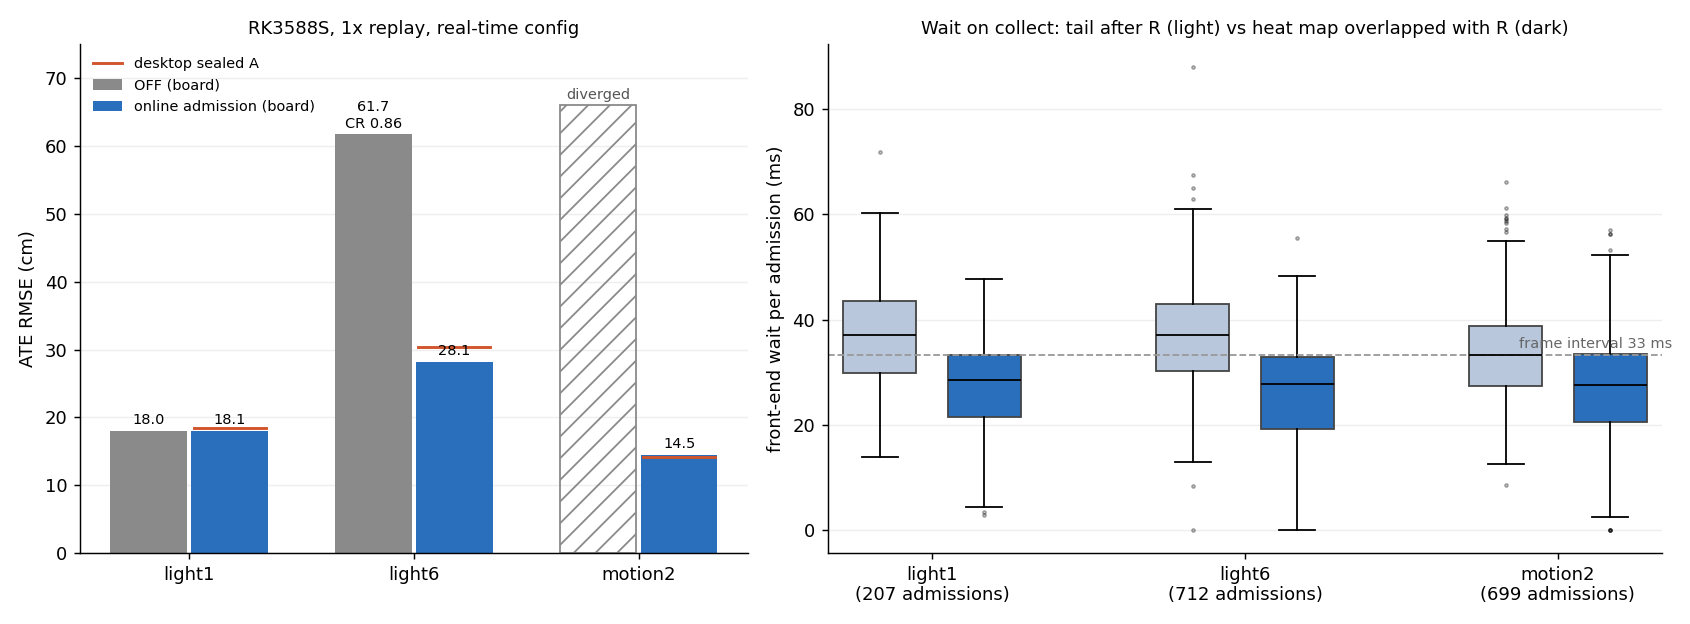
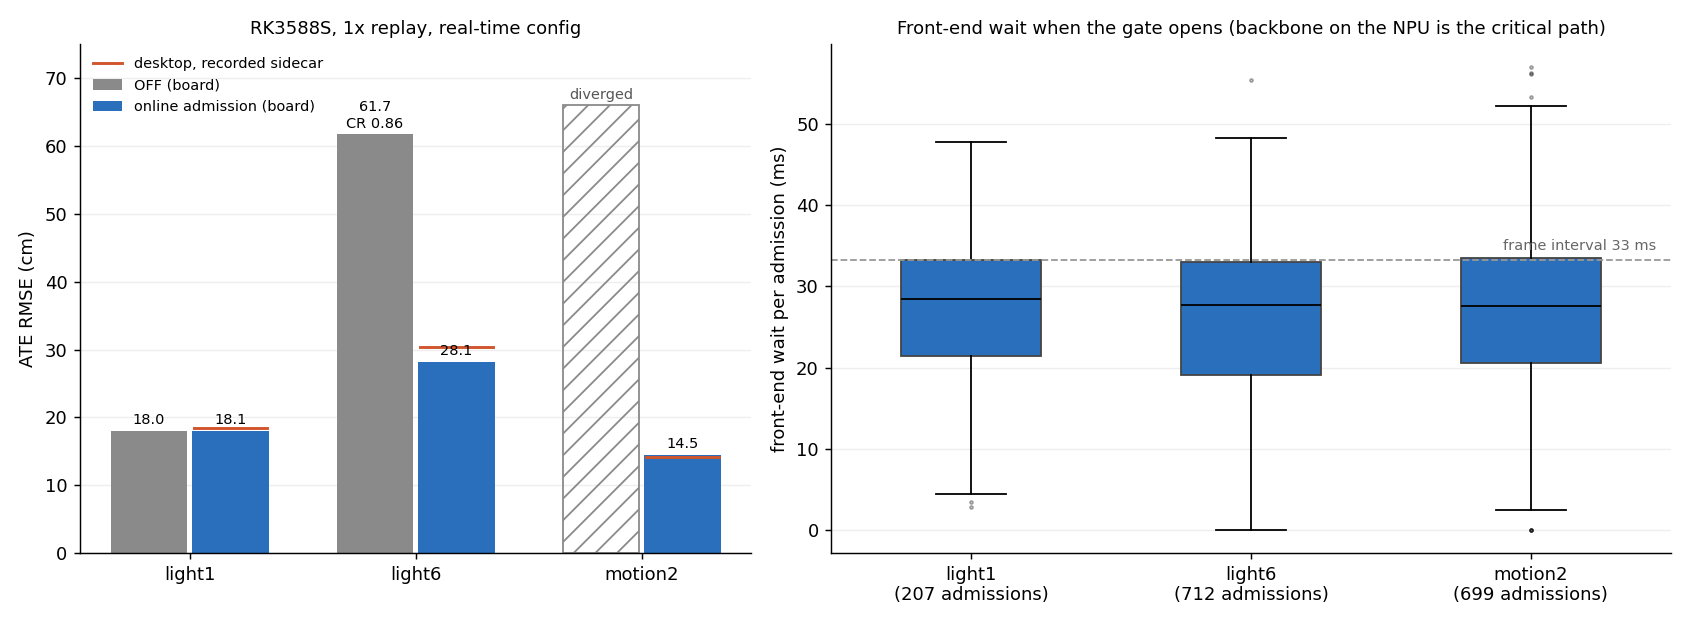
README: current state only — the board section rewritten around real-time operation with online admission; the superseded 1.1 latency table, the 1.3 quarter-rate replay and the 1.4 frozen-configuration table left to the CHANGELOG and the receipts; version line condensed; division-of-labour figure re

diff --git a/experiments/13_online_admission_20261017/scripts/figure_board_figure.py b/experiments/13_online_admission_20261017/scripts/figure_board_figure.py
@@ -26,23 +26,20 @@ for i, s in enumerate(seqs):
     a.bar(i + 0.18, n, 0.34, color=on_c, label="online admission (board)" if i == 0 else None)
     a.text(i + 0.18, n + 1, f"{n:.1f}", ha="center", fontsize=8)
     d = desk[s]["A_new"][0]
-    a.plot([i + 0.02, i + 0.34], [d, d], color=ref_c, lw=1.6, label="desktop sealed A" if i == 0 else None)
+    a.plot([i + 0.02, i + 0.34], [d, d], color=ref_c, lw=1.6, label="desktop, recorded sidecar" if i == 0 else None)
 a.set_xticks(x); a.set_xticklabels(seqs); a.set_ylabel("ATE RMSE (cm)"); a.set_ylim(0, 75)
 a.set_title("RK3588S, 1x replay, real-time config", fontsize=10)
 a.legend(fontsize=8, frameon=False, loc="upper left")
 for sp in ("top", "right"): a.spines[sp].set_visible(False)
 a.grid(axis="y", color="#eee"); a.set_axisbelow(True)
-pos = []; labels = []; data = []; colors = []
-for i, s in enumerate(seqs):
-    for j, (tag, c) in enumerate((("", "#b9c7dc"), ("_v3", on_c))):
-        data.append(waits(f"online_rt_{s}{tag}")); pos.append(i * 3 + j); colors.append(c)
-bp = b.boxplot(data, positions=pos, widths=0.7, patch_artist=True, showfliers=True,
+data = [waits(f"online_rt_{s}_v3") for s in seqs]
+bp = b.boxplot(data, positions=list(range(len(seqs))), widths=0.5, patch_artist=True, showfliers=True,
                flierprops=dict(marker=".", markersize=3, alpha=0.4), medianprops=dict(color="black"))
-for p, c in zip(bp["boxes"], colors): p.set_facecolor(c); p.set_edgecolor("#444")
-b.axhline(33.3, color="#999", ls="--", lw=1); b.text(7.6, 34.5, "frame interval 33 ms", fontsize=8, color="#666", ha="right")
-b.set_xticks([0.5, 3.5, 6.5]); b.set_xticklabels([f"{s}\n({len(data[2*i])} admissions)" for i, s in enumerate(seqs)])
+for p in bp["boxes"]: p.set_facecolor(on_c); p.set_edgecolor("#444")
+b.axhline(33.3, color="#999", ls="--", lw=1); b.text(2.45, 34.5, "frame interval 33 ms", fontsize=8, color="#666", ha="right")
+b.set_xticks(range(len(seqs))); b.set_xticklabels([f"{s}\n({len(d)} admissions)" for s, d in zip(seqs, data)])
 b.set_ylabel("front-end wait per admission (ms)")
-b.set_title("Wait on collect: tail after R (light) vs heat map overlapped with R (dark)", fontsize=10)
+b.set_title("Front-end wait when the gate opens (backbone on the NPU is the critical path)", fontsize=10)
 for sp in ("top", "right"): b.spines[sp].set_visible(False)
 b.grid(axis="y", color="#eee"); b.set_axisbelow(True)
-fig.tight_layout(); fig.savefig(W / "figures/online_board.png"); print("saved")
+fig.tight_layout(); fig.savefig(os.environ.get("OUT", str(W / "figures/online_board.png"))); print("saved")

diff --git a/README.md b/README.md
@@ -1,8 +1,9 @@
 # xfeat-admission-vio
 
-**Learned identity supply for classical visual-inertial front ends — a sidecar ABI
-any KLT tracker can consume, a reference integration into an RGB-D VIO, and a path
-from desktop replay to the RK3588 NPU.**
+**Learned identity supply for classical visual-inertial front ends — one proposal
+interface any KLT tracker can consume (a recorded sidecar, or inference inside the
+estimator), a reference integration into an RGB-D VIO, and real-time operation on the
+RK3588 NPU.**
 
 Classical VIO front ends die in one specific way: the tracker starves, the refill
 detector hands the optimizer texture-less garbage, and the sliding window folds the
@@ -12,7 +13,7 @@ candidates, only while the tracker is starving** — and leaves the estimator's
 mathematics alone. The network proposes identity; it never proposes motion.
 
 The goal is a one-stop learned front-end kit: pluggable feature backbones behind
-one binary sidecar format, gate policies that are identity-blind and auditable,
+one proposal interface, gate policies that are identity-blind and auditable,
 adapters for the common open-source estimators, and device receipts for embedded
 NPUs — so that "add a learned detector to my VIO" becomes a configuration change
 with a reproducible ledger, not a research project.
@@ -48,8 +49,6 @@ locked before the candidate ran.
 
 **motion 1–6** (aggressive handheld motion). The S-VIO column is a local replay of
 the unmodified upstream estimator under its own configuration, scored identically.
-The OFF column was produced on 2026-09-03 with the rebuilt binary that is
-byte-identical to the frozen candidate.
 
 | Sequence | ON | OFF | S-VIO (local replay) |
 |---|---:|---:|---:|
@@ -92,24 +91,18 @@ computed online on exactly the ticks where the gate can open.
 [`docs/MECHANISM.md`](docs/MECHANISM.md) has the full page, the three front-end
 modes, both proposal sources and the XFSIDE01 sidecar format.
 
-## Reproducible to the byte
+## Reproducible
 
-The gate-patched tracker hashes to the values frozen before the held-out sequences
-were opened, and a rebuild in the pinned container reproduces the frozen candidate
-binaries byte for byte; a light1 replay of both arms agrees with the sealed ATE
-(`docs/REPRODUCE.md`, `experiments/08_rebuild_verification_20260902/`). Release 1.4
-added one deployment path to the estimator (the back-end cadence, off by default); the
-binary built from the current tree with that path disabled reproduces the sealed light1
-rows to 0.005 cm (`experiments/12_rk3588s_realtime_20260903/sealed_behavior_check/`).
-Release 1.5 added online admission, off unless selected. Replaying the same sidecars,
-the 1.5 binary agrees with the 1.4 binary to within 0.03 cm on eleven of twelve
-sequences (light5: 0.7 cm). On the board, OFF reproduces 1.4 to 0.01 cm
-(`experiments/13_online_admission_20261017/`).
+Every number comes from the pinned scorer in `tools/scoring/`, and
+[`docs/REPRODUCE.md`](docs/REPRODUCE.md) rebuilds the frozen candidate in a container
+and replays it. The deployment paths added since, the back-end cadence and online
+admission, are off unless selected and leave the frozen behavior intact (receipts in
+`experiments/`).
 
 ## Layout
 
 ```
-svio/ camera_models_in/ config/ launch/   the S-VIO fork itself, at the repository root as upstream laid it out, with the XFeat sidecar reader, three front-end modes, and the gate
+svio/ camera_models_in/ config/ launch/   the S-VIO fork itself, at the repository root as upstream laid it out, with the gate, three front-end modes and both proposal sources (sidecar, online)
 patches/                the five diffs that turn upstream S-VIO into this estimator, in order (04: the back-end cadence of 1.4; 05: online admission of 1.5; both off by default)
 sidecar/                XFSIDE01 writer (xfs_materialize.py), header verifier, pinned sparse-XFeat implementation
 models/                 fixed-shape XFeat ONNX export (Apache-2.0 derivative) and its export receipt; models/online/: the reliability model and keypoint-head weights of the online path
@@ -143,100 +136,28 @@ SVIO_XFEAT_ONLINE_KHEAD=models/online/keypoint_head_fp32.bin \
 
 ## On the RK3588S
 
-The pinned FP16 backbone runs on an RK3588S (Indiedroid Nova, 16 GB) through the
-Rockchip 2.3.2 runtime; the CPU sparse tail runs on the A76 cores. Milliseconds per
-frame, 200 timed calls per input case:
+The whole estimator runs in real time on an RK3588S (Indiedroid Nova, 16 GB). It is
+an aarch64 build inside an Ubuntu 20.04 + ROS Noetic root filesystem entered with
+`chroot`, compiled natively for the A76 cores ([`deploy/board/`](deploy/board/README.md)).
+The front end runs on every frame: KLT, outlier rejection, the starvation gate and the
+learned admission. Corner detection, depth association, the line and plane front ends
+and the measurement run at 10 Hz (`backend_freq_gate: 1`,
+`experiments/12_rk3588s_realtime_20260903/config_realtime.yaml`).
 
-| Stage | median | p90 | p99 |
-|---|---:|---:|---:|
-| XFeat backbone, NPU, three cores | 64.1 | 69.7 | 76.5 |
-| XFeat backbone, NPU, one core | 67.7 | 75.4 | 79.2 |
-| sparse tail (NMS, top-500, descriptor sampling), CPU | 19.0 | 19.1 | — |
-| mutual-nearest-neighbour match, 500 × 500, CPU | 1.1 | 1.1 | — |
+The estimator computes its own proposals. Admission reads (x, y, score), and
+score = K × R: the keypoint branch's heat map times the backbone's reliability. A
+decision experiment on all twelve sequences showed that both factors must come from
+the current frame; K alone and an R one tick old both lose the gains. So on a tick
+that follows a short frame, the reliability backbone starts on the NPU as the frame
+arrives. Meanwhile the keypoint branch and its heat map run on one A76 core in
+float32. The front end takes the proposals when the gate opens; a healthy run never
+touches the NPU.
 
-Real-frame outputs reproduce the ONNX backbone through the whole sparse tail
-(500 of 500 keypoints, 0.996 within 1 px, descriptor cosine median 0.99999). The
-frozen synthetic-pattern gate and the sandbox's 50 ms p99 gate both fail on this
-board and its 0.7.2 NPU driver; the receipt says so in full:
-[`experiments/09_rk3588s_board_20260903/BOARD_RECEIPT.md`](experiments/09_rk3588s_board_20260903/BOARD_RECEIPT.md).
+![Division of labour on the RK3588S under the real-time configuration with online admission](docs/figures/rk3588s_division.svg)
 
-### The estimator end to end on the board
+Single runs at 1× replay, ATE RMSE in cm:
 
-The whole fork runs on the board as well: an aarch64 build inside an Ubuntu 20.04 + ROS
-Noetic root filesystem entered with `chroot` (recipe, launcher and replay runner in
-[`deploy/board/`](deploy/board/README.md)) replays light1 from a bag at a quarter of sensor
-rate, with the sidecar produced on the NPU beforehand. Every run processed all 2875 frames
-and produced the full 2819-pose trajectory. ATE RMSE in cm from the pinned scorer:
-
-| Machine, solver configuration | OFF | ON, sidecar made on the NPU (FP16) | ON, sidecar made on the desktop (ONNX) |
-|---|---:|---:|---:|
-| RK3588S, frozen config (40 ms wall-clock cap on Ceres) | 21.76 | 22.78 | 21.04 |
-| RK3588S, cap lifted | 22.11 | 22.69 | 20.67 |
-| desktop x86, frozen config | 27.20 | — | 19.03 |
-| desktop x86, cap lifted | 27.20 | — | 19.03 |
-
-Three things the table says. The solver cap binds on the board (Ceres averages 41 ms under
-it and 50 ms without it) and never on the desktop (11 ms), yet lifting it does not bring
-the board to the desktop's numbers. A desktop replay at the board's quarter rate reproduces
-the desktop numbers and a board repeat agrees with its first run to 0.1 cm, so neither
-replay rate nor run-to-run variation is the cause; what remains is the aarch64 build itself,
-which the receipt names as the candidate it did not test. With the desktop-made sidecar, ON beats OFF on
-the board as it does on the desktop; with the FP16 sidecar made on the NPU, ON is worse
-than OFF. Admission consumes only keypoint coordinates and scores, and the FP16 backbone
-changes the admitted set on every frame (overlap median 0.985) while the descriptors
-agree to 0.99999; one sequence, and the sign of that effect is not claimed beyond it.
-Finally, the stage times of this build put the pipeline ceiling on the A76 cores near
-17 Hz, so it does not run light1 at sensor rate; the replay was slowed to stay lossless.
-Receipt: [`experiments/11_rk3588s_end_to_end_20260903/BOARD_E2E_RECEIPT.md`](experiments/11_rk3588s_end_to_end_20260903/BOARD_E2E_RECEIPT.md).
-
-### Real time on the board
-
-What the frozen configuration cannot do, a three-line configuration can: with
-`backend_freq_gate: 1` the front end still runs on every frame (KLT, outlier rejection,
-the starvation gate, the learned admission) while corner detection, depth association,
-the line and plane front ends and the measurement move to the 10 Hz cadence that
-VINS-Mono's `freq` parameter defines, and the solver guard is sized to that period.
-Together with a native `-O3 -mcpu=cortex-a76` build and the estimator pinned to the four
-A76 cores, light1 replays at 1× on the board with every frame processed and nothing left
-to catch up when the data stops. ATE RMSE in cm, single runs:
-
-| Run on the RK3588S, light1 at 1× | poses at end of playback / final | catch-up after playback | ATE |
-|---|---:|---:|---:|
-| frozen configuration, OFF | 1861 / 2819 | 48.9 s | 22.03 |
-| real-time configuration, OFF | 939 / 939 | 0.0 s | 17.97 |
-| real-time configuration, ON, sidecar made on the desktop | 939 / 939 | 0.0 s | 14.89 |
-| real-time configuration, ON, sidecar made on the NPU | 939 / 939 | 0.0 s | 16.36 |
-| the same, with the NPU sidecar materializer running concurrently on the A55 cores and the NPU | 939 / 939 | 0.0 s | 16.36 |
-
-How the work is divided on the SoC, and what one 100 ms back-end period looks like:
-
-![Division of labour on the RK3588S under the real-time configuration](docs/figures/rk3588s_division.svg)
-
-The 10 Hz back-end cadence is a different operating point, so its accuracy was measured
-on the desktop on all twelve VCU-RVI sequences, OFF and ON, beside the sealed full-rate
-rows (`experiments/12_rk3588s_realtime_20260903/desktop_ledger/LEDGER_TABLE.md`). Two
-things from that table: the plain front end diverges on motion2 at this cadence in both
-of two runs while the learned admission keeps the sequence at 14 cm; and ON beats OFF on
-four of the eleven scored pairs, against six of twelve at full rate, the cadence
-widening ON's advantage on the darkest sequences and narrowing it elsewhere. With the
-new keys absent the patched binary reproduces the sealed rows. Receipt:
-[`experiments/12_rk3588s_realtime_20260903/REALTIME_RECEIPT.md`](experiments/12_rk3588s_realtime_20260903/REALTIME_RECEIPT.md);
-the patch: [`patches/04_backend_cadence.patch`](patches/04_backend_cadence.patch).
-
-### Online admission on the board
-
-Release 1.5 removes the sidecar. Admission reads (x, y, score), and score = K × R:
-the keypoint branch's heat map times the backbone's reliability, both of the current
-frame. A decision experiment on all twelve sequences closed the cheaper variants.
-With K alone, light2 falls to 40.6 cm and light5/6 lose completeness; with an R one
-tick old, light2's gain is gone. So the estimator computes both, synchronously, on
-exactly the ticks where the gate can open. On a tick that follows a short frame, the
-reliability backbone starts on the NPU as the frame arrives. The keypoint branch and
-its heat map run on one A76 core in float32 meanwhile. When the gate opens, the front
-end takes the proposals; a healthy run never touches the NPU. Single runs at 1× replay
-under the real-time configuration, ATE RMSE in cm:
-
-| RK3588S, 1× replay | OFF | online admission | desktop, sealed sidecar |
+| RK3588S, 1× replay | OFF | online admission | desktop, recorded sidecar |
 |---|---:|---:|---:|
 | light1 | 17.98 | 18.06 | 18.41 |
 | light6 | 61.73 (CR 0.86) | **28.13** | 30.37 |
@@ -244,17 +165,13 @@ under the real-time configuration, ATE RMSE in cm:
 
 ![Online admission on the RK3588S: accuracy and the front end's wait per admission](docs/figures/online_admission_rk3588s.png)
 
-All three replays finished with nothing left to catch up, light6 with the gate open on
+All three replays finish with nothing left to catch up, light6 with the gate open on
 712 of its 1,041 ticks. When the gate opens, the front end waits a median 28 ms
-(p95 40 ms) for the proposals. The backbone takes about 40 ms on the three NPU cores
-and is the whole critical path: the keypoint head, the heat map and the NMS run under
-it, and scoring after it takes 1.5 ms. The board's C++ path reproduces a Python
-reference in set and order on 300 of 300 ticks. On the desktop, all twelve
-sequences, online and recorded-sidecar replay agree to within the estimator's
-run-to-run variation, and the twelve-sequence mean sits on the 1 % perturbation floor
-(21.4 cm, against 21.4 and 21.6). Receipt:
+(p95 40 ms) for the proposals. The backbone, about 40 ms on the three NPU cores, is the
+whole critical path. On the desktop, all twelve sequences, online admission and
+recorded-sidecar replay agree to within the estimator's run-to-run variation. Receipt:
 [`experiments/13_online_admission_20261017/ONLINE_RECEIPT.md`](experiments/13_online_admission_20261017/ONLINE_RECEIPT.md);
-how to build and run it: [`deploy/online/README.md`](deploy/online/README.md).
+build and run: [`deploy/online/README.md`](deploy/online/README.md).
 
 <img src="docs/figures/rk3588s_indiedroid_nova.jpg" alt="Indiedroid Nova RK3588S on the bench over ADB" width="520">
 
@@ -262,13 +179,13 @@ how to build and run it: [`deploy/online/README.md`](deploy/online/README.md).
 
 | Version | What it is |
 |---|---|
-| 1.0 | final code release: frozen candidate, sidecar tooling, sealed VCU ledger, RKNN compile receipts, byte-identical rebuild verification |
-| 1.1 | RK3588S on-device receipts: identity, NPU latency per core mask, CPU sparse-tail latency, memory, conformance against the ONNX reference |
-| 1.2 | matched-OFF control completed on all twelve VCU sequences with the rebuilt binary; README tables replace the chart |
-| 1.3 | the estimator end to end on the RK3588S: aarch64 build, chroot launcher, lossless replay runner, light1 scored on the board in both solver configurations against a desktop rerun |
-| 1.4 | real time on the RK3588S: back-end cadence path (off by default, sealed behavior reproduced), native tuned build, light1 at 1× with no backlog including under NPU load, the cadence's accuracy on all twelve VCU sequences |
-| **1.5** | online admission: the estimator computes its own proposals, synchronously and only where the gate can open (RKNN C runtime on the NPU, float32 keypoint head on the CPU, onnxruntime on desktops); the decision experiment behind it; light6 and motion2 rescued on the board at 1× with no backlog |
-| 1.x | a live camera feeding the board pipeline, a faster NPU backbone (mixed precision, INT8 under the floor of 1.5), per-layer NPU profiling, driver upgrade, more backbones behind the online interface |
+| 1.0 | the mechanism: frozen candidate, sidecar tooling, VCU ledger, rebuild verification |
+| 1.1 | RK3588S on-device receipts: NPU latency, memory, conformance against ONNX |
+| 1.2 | matched-OFF control on all twelve VCU sequences |
+| 1.3 | the estimator end to end on the RK3588S |
+| 1.4 | real time on the RK3588S: front end at sensor rate, back end at 10 Hz |
+| **1.5** | online admission: proposals computed in the estimator, only where the gate can open; light6 and motion2 rescued on the board |
+| 1.x | a live camera on the board, a faster NPU backbone (mixed precision, INT8), per-layer NPU profiling, more backbones behind the online interface |
 
 See [`ROADMAP.md`](ROADMAP.md) and [`CHANGELOG.md`](CHANGELOG.md).
 
@@ -278,5 +195,5 @@ GPL-3.0 (the estimator is a derivative of S-VIO). XFeat is Apache-2.0. Provenanc
 third-party notices and what is deliberately not redistributed:
 [`NOTICE.md`](NOTICE.md).
 
-If you build on the gate or the sidecar format, please cite S-VIO (Gu and Meng,
+If you build on the gate or the proposal interface, please cite S-VIO (Gu and Meng,
 RA-L 2023) and XFeat (Potje et al., CVPR 2024) alongside this repository.
